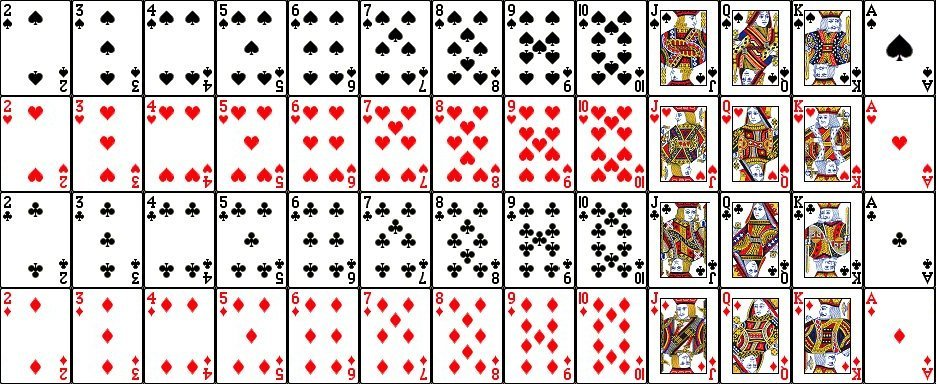
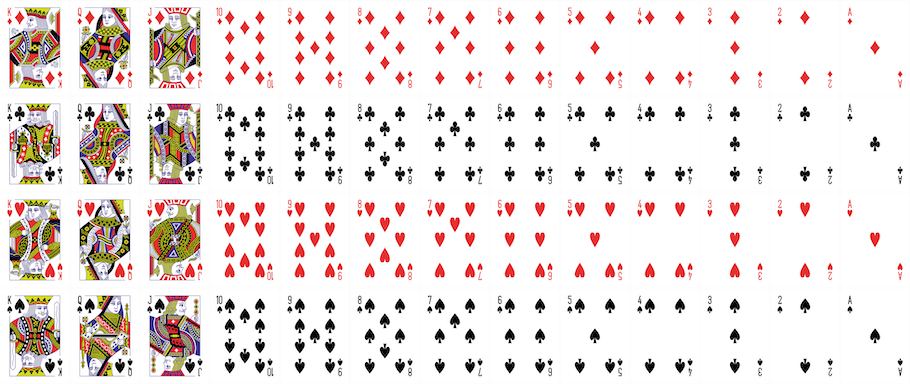
Replace card sprites

diff --git a/guibole.js b/guibole.js
@@ -12,7 +12,7 @@ define([
       this.deck = null;
       this.drawed_cards = null;
 
-      this.cardwidth = 72;
+      this.cardwidth = 70;
       this.cardheight = 96;
     },
 
@@ -64,7 +64,8 @@ define([
 
       // Create cards types:
       for (var color = 1; color <= 4; color++) {
-        for (var value = 2; value <= 14; value++) {
+        // K, Q, J, 10, ..., 2, A
+        for (var value = 13; value >= 1; value--) {
           // Build card type id
           var card_type_id = this.getCardUniqueId(color, value);
 

diff --git a/guibole.game.php b/guibole.game.php
@@ -51,7 +51,8 @@ class Guibole extends Table
     $cards = array();
     foreach ($this->colors as $color_id => $color) // spade, heart, diamond, club
     {
-      for ($value = 2; $value <= 14; $value++)   //  2, 3, 4, ... K, A
+      //  K, Q, J, 10, ..., 2, A
+      for ($value = 13; $value >= 1; $value--)
       {
         $cards[] = array('type' => $color_id, 'type_arg' => $value, 'nbr' => 1);
       }

diff --git a/gameinfos.inc.php b/gameinfos.inc.php
@@ -34,7 +34,7 @@ $gameinfos = array(
   'publisher_bgg_id' => 85871206,
 
   // Board game geek ID of the game
-  'bgg_id' => 0,
+  'bgg_id' => 88900,
 
 
   // Players configuration that can be played (ex: 2 to 4 players)
